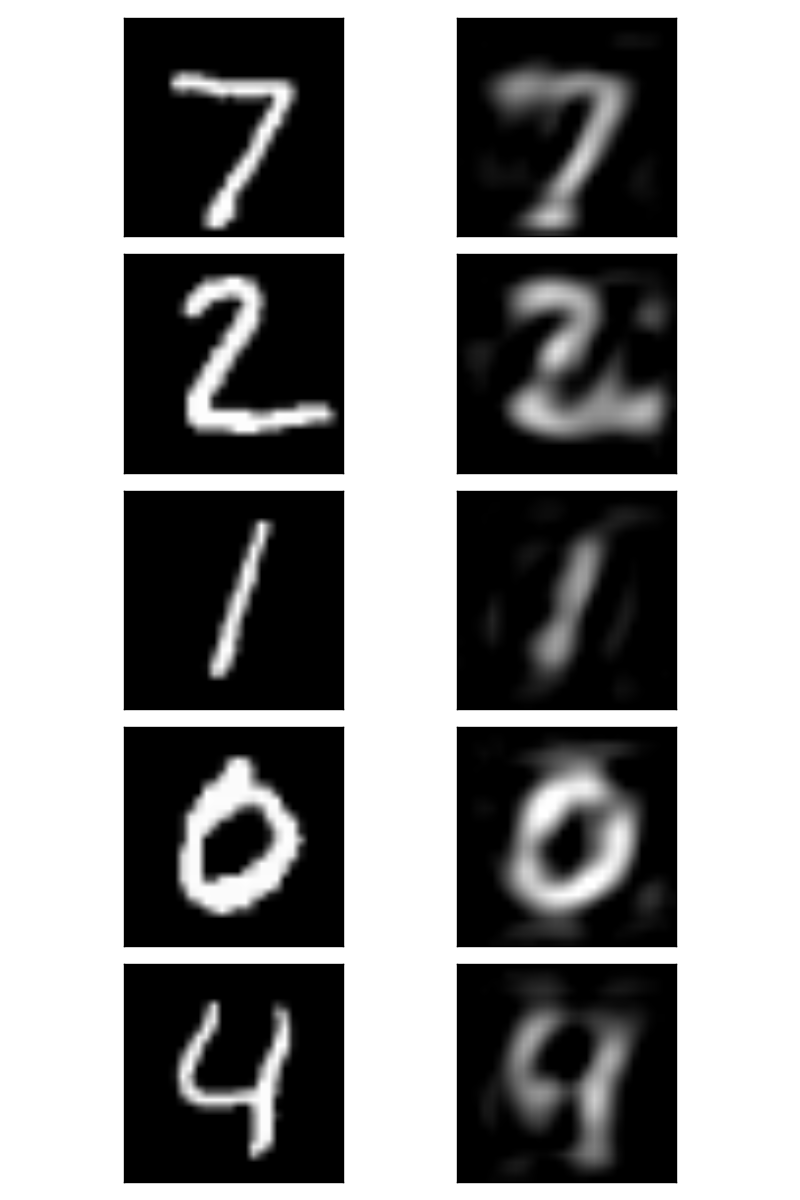
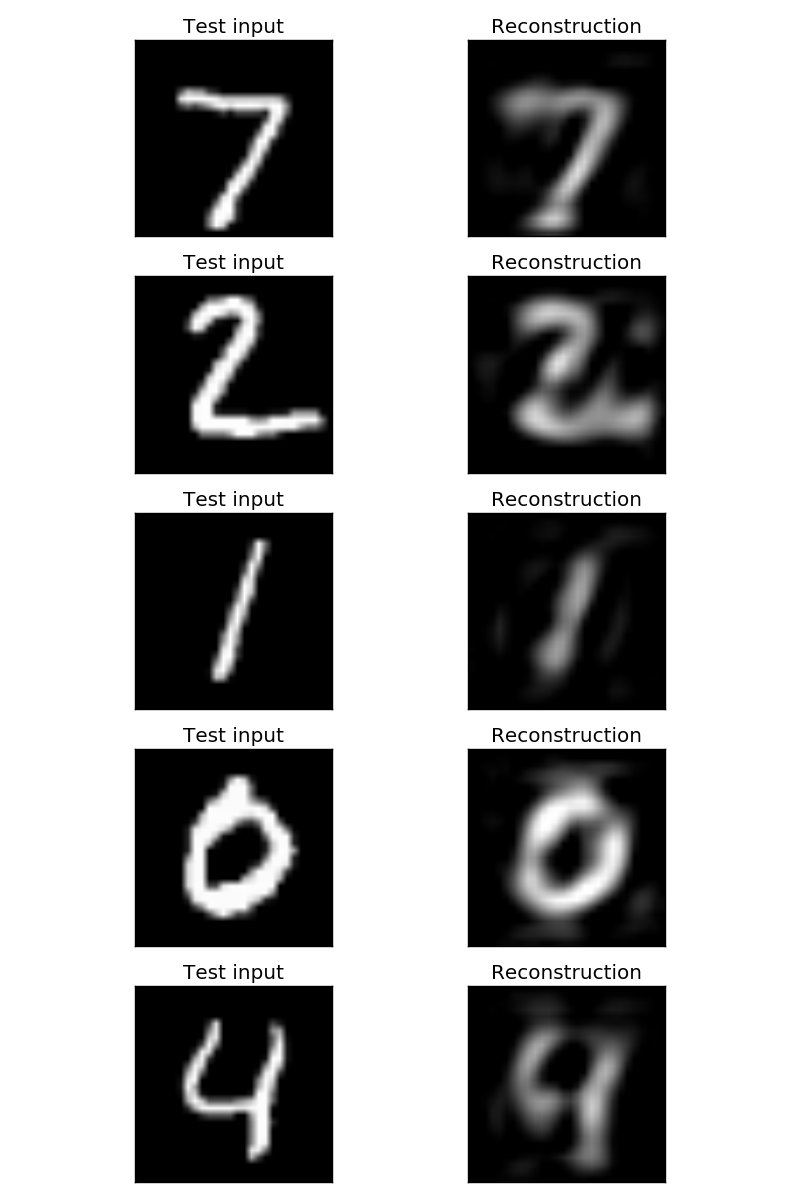
reconstruct PCA

Changed region(s): [[0.5625, 0.0, 0.875, 0.9867], [0.1562, 0.0, 0.4375, 0.9867]]

diff --git a/train_pca.py b/train_pca.py
@@ -30,13 +30,6 @@ def transform_inputs(components, data):
     return np.dot(data, components.T)
 
 
-def test_recon(data):
-    num_images = 5
-    x_test = data[0:, num_images]
-    recon = pca.inverse_transform(pca.transform(x_test))
-    plot_images(x_test, recon, num_images, 'pca')
-
-
 if __name__ == '__main__':
     FLAGS = {
         'num_iterations': 40000,  # should 3000 epochs
@@ -58,11 +51,23 @@ if __name__ == '__main__':
     train_y = np.concatenate((train_l_y, train_u_y), axis=0)
 
     pca = pca_components(train_x, FLAGS['n_components'])
-    train = [pca.transform(train_x), train_y]
-    valid = [pca.transform(valid_x), valid_y]
-    test = [pca.transform(test_x), test_y]
 
-    test_recon(test_x)
+    train_x_tran = pca.transform(train_x)
+    train = [train_x_tran, train_y]
+
+    valid_x_tran = pca.transform(valid_x)
+    valid = [valid_x_tran, valid_y]
+
+    test_x_tran = pca.transform(test_x)
+    test = [test_x_tran, test_y]
+
+    print("train_x_tran:{},  valid_x_tran:{}, test_x_tran:{} ".format(train_x_tran.shape, valid_x_tran.shape,
+                                                                      test_x_tran.shape))
+
+    num_images = 5
+    recon = pca.inverse_transform(test_x_tran)
+    print("recon :{}".format(recon.shape))
+    plot_images(test_x[0:num_images], recon[0:num_images], num_images, 'pca')
 
     pca = PCAClassifier(batch_size=FLAGS['batch_size'], learning_rate=FLAGS['learning_rate'],
                         beta1=FLAGS['beta1'], beta2=FLAGS['beta2'],

diff --git a/models/utils/metrics.py b/models/utils/metrics.py
@@ -75,8 +75,10 @@ def plot_images(x_test, x_reconstruct, n_images, name):
         # Plot image.
         plt.subplot(n_images, 2, 2 * i + 1)
         s1 = plt.imshow(x_test[i].reshape(28, 28), vmin=0, vmax=1, cmap="gray")
+        plt.title("Test input")
         plt.subplot(n_images, 2, 2 * i + 2)
         s2 = plt.imshow(x_reconstruct[i].reshape(28, 28), vmin=0, vmax=1, cmap="gray")
+        plt.title("Reconstruction")
         s1.axes.get_xaxis().set_visible(False)
         s1.axes.get_yaxis().set_visible(False)
         s2.axes.get_xaxis().set_visible(False)
